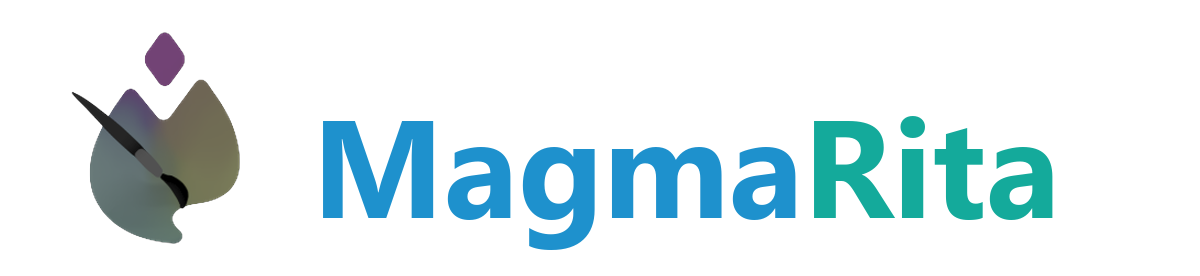
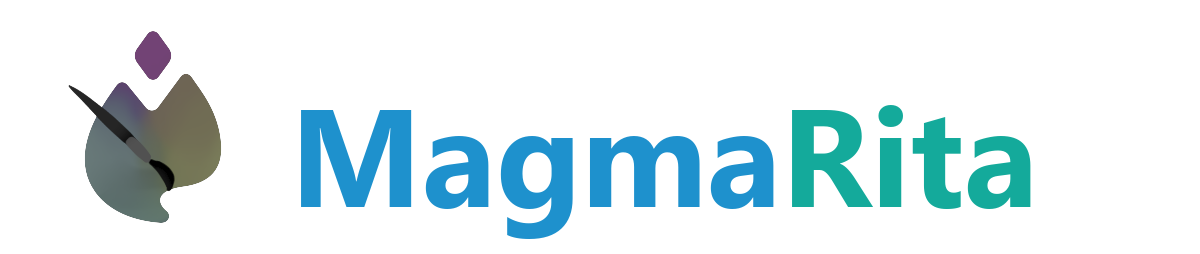
Branding: never upscale the mark beyond its native size

Changed region(s): [[0.2467, 0.4134, 0.8942, 0.937], [0.0308, 0.1102, 0.2158, 0.8819]]

diff --git a/tools/make_branding_from_mark.py b/tools/make_branding_from_mark.py
@@ -63,12 +63,15 @@ def main():
     if not os.path.isdir(OUT):
         os.makedirs(OUT)
 
-    for size in ICON_SIZES:
+    cap = mark.width
+    sizes = sorted({s for s in ICON_SIZES if s <= cap} | {cap}, reverse=True)
+    print("source mark: %dpx -> generating icons %s (never upscaled)" % (cap, sizes))
+    for size in sizes:
         scaled(mark, size).save(os.path.join(OUT, "magmarita-icon-%d.png" % size))
-    scaled(mark, 512).save(os.path.join(OUT, "magmarita-icon.png"))
+    scaled(mark, min(cap, 512)).save(os.path.join(OUT, "magmarita-icon.png"))
 
     def wordmark(width, tagline=True):
-        ic = int(width * 0.20)
+        ic = min(int(width * 0.20), mark.width)
         icon = scaled(mark, ic)
         f1 = ImageFont.truetype(FB, int(width * 0.115))
         f2 = ImageFont.truetype(FL, int(width * 0.045))
@@ -91,7 +94,7 @@ def main():
     wordmark(1200, tagline=False).save(os.path.join(OUT, "magmarita-wordmark.png"))
 
     cover = Image.new("RGBA", (630, 250), WHITE + (255,))
-    it = scaled(mark, 150)
+    it = scaled(mark, min(150, mark.width))
     cover.paste(it, (34, 50), it)
     d = ImageDraw.Draw(cover)
     d.text((210, 74), "MagmaRita", font=ImageFont.truetype(FB, 52), fill=BLUE_TXT + (255,))
@@ -100,7 +103,7 @@ def main():
     cover.save(os.path.join(OUT, "itch-cover-630x250.png"))
 
     social = Image.new("RGBA", (1280, 640), WHITE + (255,))
-    sb = scaled(mark, 340)
+    sb = scaled(mark, min(340, mark.width))
     social.paste(sb, (110, 150), sb)
     d = ImageDraw.Draw(social)
     d.text((520, 205), "MagmaRita", font=ImageFont.truetype(FB, 104), fill=BLUE_TXT + (255,))
